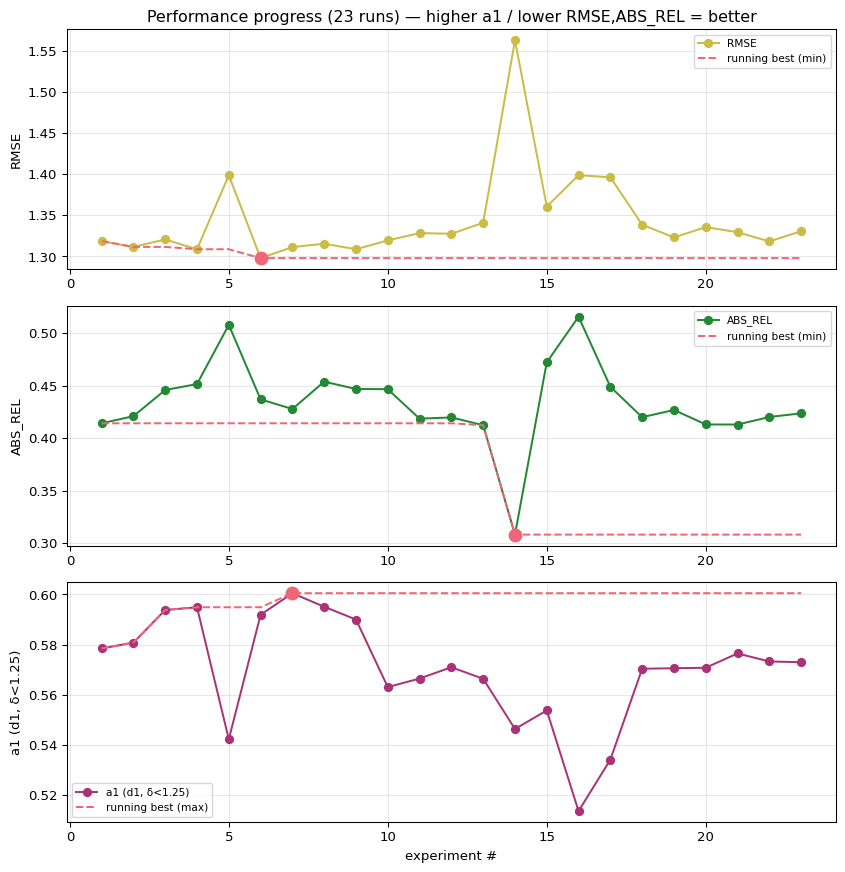
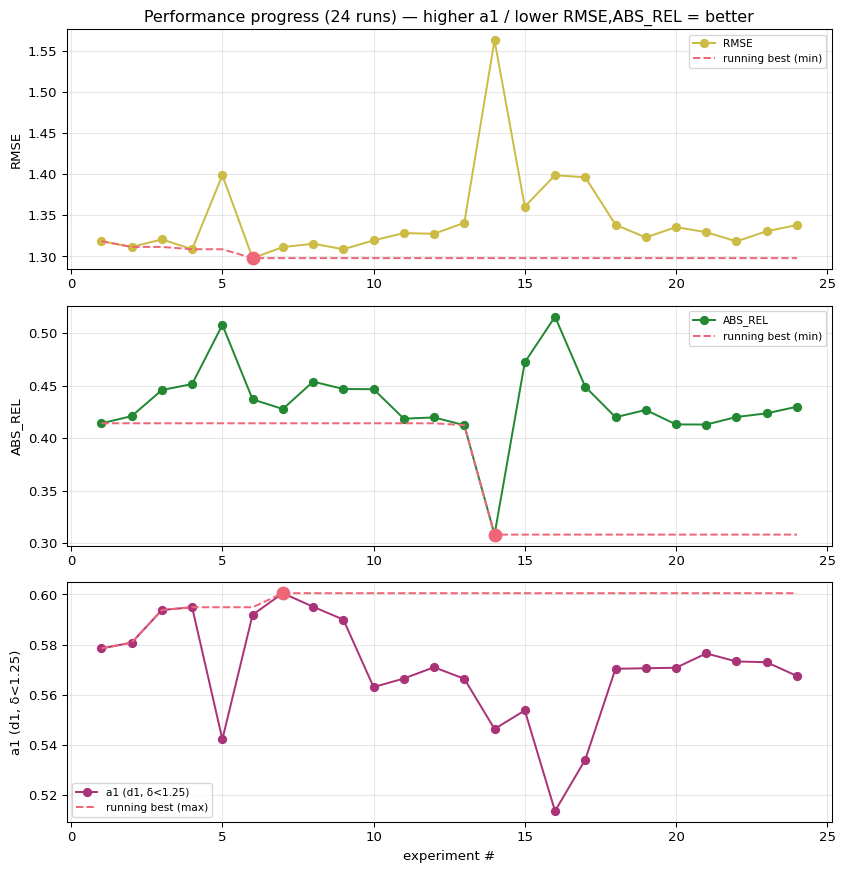
E27: EchoDelayVolume is a SCOPED specialist, not a champion (G0 concluded)
E27 (champion architecture + EchoDelayVolume, --epochs 21 so cosine anneals to lr 0, converged):
composite 1.9271, WORSE than E23's 1.8962 by 0.0309 -- and worse than the unconverged E25. The
schedule fix removed the budget confound and the mechanism still lost.

Decisively, the far deciles it was designed to fix REGRESSED on the champion parent: 8-9m -0.0362,
9-10m -0.0230, against E24's +0.076 and +0.060 on the fast parent. Mean predicted depth at GT 8-9m
FELL from 5.044m to 4.824m. So the parent-dependence (D12) is real, not a budget artefact.

Cause: the two parents differ only in win32 (3 vs 5) and ffn_mult (2 vs 4), and the champion
already does far-field better WITHOUT the volume (E23 8-9m d1 0.2306 vs fast E21 0.1845). The wider
local attention and larger FFN already buy the far-field accuracy EchoDelayVolume targets, so the
two compete for capacity instead of composing. The mechanism helps a starved decoder and hinders a
strong one.

Verdict per program.md: a method may fail to become champion yet PASS as a hypothesis with a clear,
reproducible, scoped effect. I19 qualifies -- its pre-registered physical prediction was confirmed
on the parent that needed it. Not crowned. E28 (a confirm of E27) killed; the question is answered.
The productive combine the scope predicts is EchoDelayVolume + fine-time-token routing (I14), not
with the champion's dense capacity.

Champion stays E23 (1.8962); gap to batvision 0.0395. Mode -> synthesize.

diff --git a/README.md b/README.md
@@ -7,19 +7,19 @@ Autonomous research — binaural echoes → ERP planar (cubemap) depth (SoundSpa
 
 | | |
 |---|---|
-| **Mode** | `VERIFY` — clean reimplementation on the correct parent -> standalone run -> bounded HPO -> PASS / FAIL |
-| **Active study** | `G0` [new] echo-delay-volume (*running*) |
-| **Research question** | Depth from echoes is a time-of-flight measurement: a surface at depth d returns its echo at t = 2d/c. A network that regresses a scalar depth must discover that correspondence from data; a network who |
-| **Current action** | E24 = defaults + --depth-volume True (control E21). E25 = champion architecture + depth volume (control E23). E26 = confirm draw. |
-| **Latest result** | `E24` raydpt_e24_echodelay: composite **1.8987** (rmse 1.3183, d1 0.5733, abs_rel None), best epoch 23/24 |
-| **Next decision** | The pre-registered falsification (far deciles must improve) PASSED. Crowning still requires (a) the mechanism measured on the champion architecture, since E24 carried knobs that cost 0.0137, and (b) a |
-| **Why this mode** | I19's pre-registered prediction was confirmed -- the first in the project. Verify it on the correct parent and with a second draw before crowning. |
+| **Mode** | `SYNTHESIZE` — no runs; review evidence, find contradictions, pick the highest-information next question |
+| **Active study** | `S8` [new] synthesize (*pending*) |
+| **Research question** | Pending divergence checkpoint. |
+| **Current action** | TBD |
+| **Latest result** | *(no scored run in this study yet)* |
+| **Next decision** | Highest information value; the champion still trails the reference by 0.0395 and the far field is where. |
+| **Why this mode** | I19 is confirmed as a scoped mechanism but is not a champion; three studies concluded (F1, G0, and the fast-baseline F0). A divergence checkpoint is due before committing GPU to the next direction. |
 
 ### Current hypothesis
 
-- **General** — Depth from echoes is a time-of-flight measurement: a surface at depth d returns its echo at t = 2d/c. A network that regresses a scalar depth must discover that correspondence from data; a network whose architecture encodes it does not. Put the physics in the structure, not in the loss.
-- **Detailed** — The encoder's width axis IS time -- spec is (freq 256, time 512), so e3 is (freq 32, time 64) and its columns are depth hypotheses spanning 0.08-9.92 m. Each ray attends over FREQUENCY within one time column per hypothesis, a small MLP scores the hypotheses, and a softmax over the DEPTH axis gives p(d|ray); depth = soft-argmax over echo delay. It also replaces the sigmoid coarse head that saturated in D11.
-- **Implementation note** — E24 = defaults + --depth-volume True (control E21). E25 = champion architecture + depth volume (control E23). E26 = confirm draw.
+- **General** — Pending divergence checkpoint.
+- **Detailed** — TBD
+- **Implementation note** — TBD
 
 ### Research portfolio
 
@@ -31,7 +31,7 @@ Autonomous research — binaural echoes → ERP planar (cubemap) depth (SoundSpa
 | `I7` | sensing physics / angular resolution | far | two microphones may fundamentally under-determine high azimuthal frequencies | candidate | Do not chase high-frequency power as a goal. Re-test the observability claim once RayDPT c |
 | `I10` | acoustic-representation / interpolation | mid | the nearest-neighbour resize in _features() turns the time axis into a coarse staircase | inconclusive | deferred confirm: run `--feat-interp bilinear --stft-hop 40` after the RayDPT throughput s |
 | `I14` | ray conditioning / audio token routing | mid | far-field rays cannot see the late, weak echo that carries distance | probing | E16 (control) then E15b (treatment), both at lr 6e-4. Pre-registered falsification unchang |
-| `I19` | ray conditioning / physically-structured decoding | far | the model must LEARN that echo delay encodes depth, and it fails to, collapsing far surfaces toward the median | verifying | E27 / E28 (champion + EDE, --epochs 21). Until they land, I19's effect on the champion par |
+| `I19` | ray conditioning / physically-structured decoding | far | the model must LEARN that echo delay encodes depth, and it fails to, collapsing far surfaces toward the median | inconclusive | Do NOT crown. Test the ONE compatible combination the scope predicts: EchoDelayVolume + fi |
 
 ### Open discrepancies
 
@@ -43,13 +43,12 @@ Autonomous research — binaural echoes → ERP planar (cubemap) depth (SoundSpa
   <br/>*Why it matters:* If temporal resolution set range accuracy, B should own RMSE. It does not; A does, and A did not change resolution at all. Meanwhile B, which also sacrifices frequency resolution (win 400 -> 64), buys ANGLE. That inverts the physical story: sharper transients seem to help azimuth cues (ILD/IPD are read across frequency and time), while range accuracy responds to something in the sampling/interpolation of the time axis.
 - **`D8`** — E6 holds 29.7% LESS high-frequency azimuthal power than E2 (0.0232 vs 0.0331) yet has a BETTER d1 (0.6005 vs 0.5938). Separately, removing 58% of the gradient (E7 vs E3) barely changed the spectrum or the composite.
   <br/>*Why it matters:* It breaks the assumption -- mine, unstated until now -- that d1 improves because predictions get sharper. d1 counts pixels within +-25% of truth, and a well-centred smooth field beats a mis-placed sharp one. So the low-pass character of these models may be largely IRRELEVANT to the metric, and 'restore high frequencies' is probably the wrong research goal.
-- **`D12`** — EchoDelayVolume beat its control by 0.0112 on the fast parent (E24 vs E21) and LOST by 0.0121 on the champion parent (E25 vs E23). Same mechanism, opposite signs, both above sigma.
-  <br/>*Why it matters:* program.md flags exactly this -- a mechanism whose outcome depends on its parent. But before crediting the parent, look at the budget: EchoDelayVolume costs 12 s/epoch, and on the slower champion architecture that pushed E25 from 22 epochs to 21, cut its cosine schedule to 81%, and left its best checkpoint at the LAST epoch. E24 survived only because the fast knobs had bought it epochs (best 23 of 24). The apparent parent-dependence may be pure budget.
 
 ### Recent decisions
 
 | When | Mode | Event | Note |
 |---|---|---|---|
+| 2026-07-11T03:24 | `synthesize` | experiment_completed | Champion + EchoDelayVolume, converged (cosine annealed to lr 0): composite 1.9271, WORSE than E23 by 0.0309, and the far deciles i |
 | 2026-07-11T00:42 | `verify` | discrepancy_recorded | D12: the same mechanism beats its control on the fast parent (+0.0112) and loses on the champion parent (-0.0121), both above sigm |
 | 2026-07-11T00:42 | `verify` | experiment_completed | INCONCLUSIVE, not negative. Champion + EchoDelayVolume scored 1.9083 vs E23's 1.8962 -- opposite sign from E24 -- but it did NOT c |
 | 2026-07-10T23:38 | `verify` | experiment_completed | I19 PASSED its pre-registered falsification: every far decile improved (7-8m +0.0692, 8-9m +0.0759, 9-10m +0.0595) and the mean pr |
@@ -57,7 +56,6 @@ Autonomous research — binaural echoes → ERP planar (cubemap) depth (SoundSpa
 | 2026-07-10T21:33 | `exploit` | experiment_completed | Control win5/ffn4 @ lr 6e-4: composite 1.9125, stable. 2x2 complete except E23. At matched lr the fast knobs cost +0.0051 (below s |
 | 2026-07-10T20:48 | `exploit` | idea_added | STRUCTURAL, not a loss change. The encoder's width axis IS time, so e3's 64 columns are depth hypotheses (d = c*t/2, 0.08-9.92m).  |
 | 2026-07-10T20:33 | `exploit` | experiment_completed | fast config at lr 3e-4: composite 1.9099, stable (max mae jump 0.99), converged (best ep19/25). Matches the E11 champion (1.9093)  |
-| 2026-07-10T19:33 | `exploit` | experiment_completed | I18 CONFIRMED: at lr 6e-4 the fast config is stable (mae never rose between epochs, max ratio 0.99 vs 1.46/1.51 at lr 1.2e-3) and  |
 
 *Updated by `python utils/report.py research`. Champion: none yet.*
 <!-- RESEARCH:END -->
@@ -114,6 +112,7 @@ running best highlighted):
 | 21 | `1c34d7c` | 0.4131 | 1.3295 | 0.5765 | 1.8962 | keep | E23 CONTROL win5 ffn4 @ lr 3e-4 (F1 attribution: closes the 2x2) |
 | 22 | `a7b0613` | 0.4203 | 1.3183 | 0.5733 | 1.8987 | keep | E24 EchoDelayVolume: per-ray soft-argmax over echo delay (G0/I19 structural) |
 | 23 | `0a858e4` | 0.4238 | 1.3307 | 0.5730 | 1.9083 | keep | E25 CHAMPION arch + EchoDelayVolume (G0/I19 on the correct parent) |
+| 24 | `9a26c0c` | 0.4301 | 1.3382 | 0.5675 | 1.9271 | keep | E27 CHAMPION + EchoDelayVolume, epochs matched to budget (G1b/I19) |
 <!-- RESULTS:END -->
 
 ## Progression (composite, lower = better)